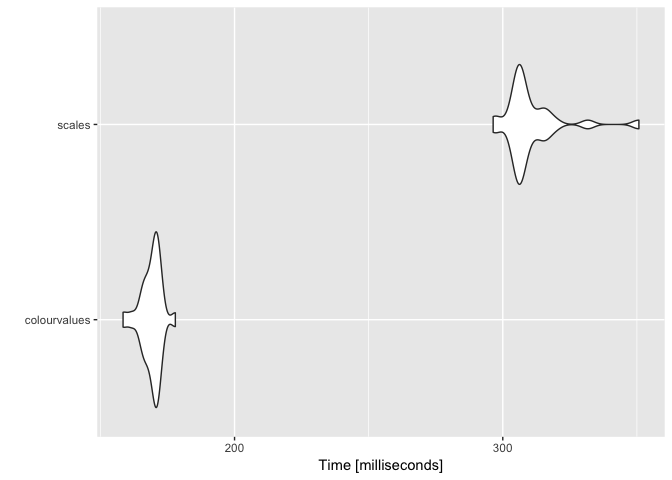
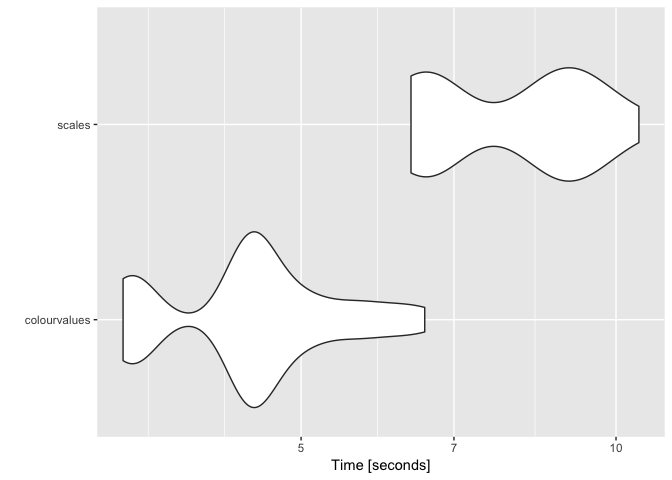
closes #29

diff --git a/src/RcppExports.cpp b/src/RcppExports.cpp
@@ -20,9 +20,9 @@ BEGIN_RCPP
     return rcpp_result_gen;
 END_RCPP
 }
-// rcpp_colour_num_value_string_palette_legend_hex
-Rcpp::List rcpp_colour_num_value_string_palette_legend_hex(Rcpp::NumericVector x, std::string palette, std::string na_colour, Rcpp::NumericVector alpha, bool include_alpha, int n_summaries);
-RcppExport SEXP _colourvalues_rcpp_colour_num_value_string_palette_legend_hex(SEXP xSEXP, SEXP paletteSEXP, SEXP na_colourSEXP, SEXP alphaSEXP, SEXP include_alphaSEXP, SEXP n_summariesSEXP) {
+// rcpp_colour_num_value_string_palette_summary_hex
+Rcpp::List rcpp_colour_num_value_string_palette_summary_hex(Rcpp::NumericVector x, std::string palette, std::string na_colour, Rcpp::NumericVector alpha, bool include_alpha, int n_summaries);
+RcppExport SEXP _colourvalues_rcpp_colour_num_value_string_palette_summary_hex(SEXP xSEXP, SEXP paletteSEXP, SEXP na_colourSEXP, SEXP alphaSEXP, SEXP include_alphaSEXP, SEXP n_summariesSEXP) {
 BEGIN_RCPP
     Rcpp::RObject rcpp_result_gen;
     Rcpp::RNGScope rcpp_rngScope_gen;
@@ -32,7 +32,7 @@ BEGIN_RCPP
     Rcpp::traits::input_parameter< Rcpp::NumericVector >::type alpha(alphaSEXP);
     Rcpp::traits::input_parameter< bool >::type include_alpha(include_alphaSEXP);
     Rcpp::traits::input_parameter< int >::type n_summaries(n_summariesSEXP);
-    rcpp_result_gen = Rcpp::wrap(rcpp_colour_num_value_string_palette_legend_hex(x, palette, na_colour, alpha, include_alpha, n_summaries));
+    rcpp_result_gen = Rcpp::wrap(rcpp_colour_num_value_string_palette_summary_hex(x, palette, na_colour, alpha, include_alpha, n_summaries));
     return rcpp_result_gen;
 END_RCPP
 }
@@ -47,6 +47,21 @@ BEGIN_RCPP
     Rcpp::traits::input_parameter< std::string >::type na_colour(na_colourSEXP);
     Rcpp::traits::input_parameter< bool >::type include_alpha(include_alphaSEXP);
     rcpp_result_gen = Rcpp::wrap(rcpp_colour_num_value_rgb_palette_hex(x, palette, na_colour, include_alpha));
+    return rcpp_result_gen;
+END_RCPP
+}
+// rcpp_colour_num_value_rgb_palette_summary_hex
+Rcpp::List rcpp_colour_num_value_rgb_palette_summary_hex(Rcpp::NumericVector x, Rcpp::NumericMatrix palette, std::string na_colour, bool include_alpha, int n_summaries);
+RcppExport SEXP _colourvalues_rcpp_colour_num_value_rgb_palette_summary_hex(SEXP xSEXP, SEXP paletteSEXP, SEXP na_colourSEXP, SEXP include_alphaSEXP, SEXP n_summariesSEXP) {
+BEGIN_RCPP
+    Rcpp::RObject rcpp_result_gen;
+    Rcpp::RNGScope rcpp_rngScope_gen;
+    Rcpp::traits::input_parameter< Rcpp::NumericVector >::type x(xSEXP);
+    Rcpp::traits::input_parameter< Rcpp::NumericMatrix >::type palette(paletteSEXP);
+    Rcpp::traits::input_parameter< std::string >::type na_colour(na_colourSEXP);
+    Rcpp::traits::input_parameter< bool >::type include_alpha(include_alphaSEXP);
+    Rcpp::traits::input_parameter< int >::type n_summaries(n_summariesSEXP);
+    rcpp_result_gen = Rcpp::wrap(rcpp_colour_num_value_rgb_palette_summary_hex(x, palette, na_colour, include_alpha, n_summaries));
     return rcpp_result_gen;
 END_RCPP
 }
@@ -94,6 +109,22 @@ BEGIN_RCPP
     return rcpp_result_gen;
 END_RCPP
 }
+// rcpp_colour_num_value_string_palette_summary_rgb
+Rcpp::List rcpp_colour_num_value_string_palette_summary_rgb(Rcpp::NumericVector x, std::string palette, std::string na_colour, Rcpp::NumericVector alpha, bool include_alpha, int n_summaries);
+RcppExport SEXP _colourvalues_rcpp_colour_num_value_string_palette_summary_rgb(SEXP xSEXP, SEXP paletteSEXP, SEXP na_colourSEXP, SEXP alphaSEXP, SEXP include_alphaSEXP, SEXP n_summariesSEXP) {
+BEGIN_RCPP
+    Rcpp::RObject rcpp_result_gen;
+    Rcpp::RNGScope rcpp_rngScope_gen;
+    Rcpp::traits::input_parameter< Rcpp::NumericVector >::type x(xSEXP);
+    Rcpp::traits::input_parameter< std::string >::type palette(paletteSEXP);
+    Rcpp::traits::input_parameter< std::string >::type na_colour(na_colourSEXP);
+    Rcpp::traits::input_parameter< Rcpp::NumericVector >::type alpha(alphaSEXP);
+    Rcpp::traits::input_parameter< bool >::type include_alpha(include_alphaSEXP);
+    Rcpp::traits::input_parameter< int >::type n_summaries(n_summariesSEXP);
+    rcpp_result_gen = Rcpp::wrap(rcpp_colour_num_value_string_palette_summary_rgb(x, palette, na_colour, alpha, include_alpha, n_summaries));
+    return rcpp_result_gen;
+END_RCPP
+}
 // rcpp_colour_num_value_rgb_palette_rgb
 Rcpp::NumericMatrix rcpp_colour_num_value_rgb_palette_rgb(Rcpp::NumericVector x, Rcpp::NumericMatrix palette, std::string na_colour, bool include_alpha);
 RcppExport SEXP _colourvalues_rcpp_colour_num_value_rgb_palette_rgb(SEXP xSEXP, SEXP paletteSEXP, SEXP na_colourSEXP, SEXP include_alphaSEXP) {
@@ -105,6 +136,21 @@ BEGIN_RCPP
     Rcpp::traits::input_parameter< std::string >::type na_colour(na_colourSEXP);
     Rcpp::traits::input_parameter< bool >::type include_alpha(include_alphaSEXP);
     rcpp_result_gen = Rcpp::wrap(rcpp_colour_num_value_rgb_palette_rgb(x, palette, na_colour, include_alpha));
+    return rcpp_result_gen;
+END_RCPP
+}
+// rcpp_colour_num_value_rgb_palette_summary_rgb
+Rcpp::List rcpp_colour_num_value_rgb_palette_summary_rgb(Rcpp::NumericVector x, Rcpp::NumericMatrix palette, std::string na_colour, bool include_alpha, int n_summaries);
+RcppExport SEXP _colourvalues_rcpp_colour_num_value_rgb_palette_summary_rgb(SEXP xSEXP, SEXP paletteSEXP, SEXP na_colourSEXP, SEXP include_alphaSEXP, SEXP n_summariesSEXP) {
+BEGIN_RCPP
+    Rcpp::RObject rcpp_result_gen;
+    Rcpp::RNGScope rcpp_rngScope_gen;
+    Rcpp::traits::input_parameter< Rcpp::NumericVector >::type x(xSEXP);
+    Rcpp::traits::input_parameter< Rcpp::NumericMatrix >::type palette(paletteSEXP);
+    Rcpp::traits::input_parameter< std::string >::type na_colour(na_colourSEXP);
+    Rcpp::traits::input_parameter< bool >::type include_alpha(include_alphaSEXP);
+    Rcpp::traits::input_parameter< int >::type n_summaries(n_summariesSEXP);
+    rcpp_result_gen = Rcpp::wrap(rcpp_colour_num_value_rgb_palette_summary_rgb(x, palette, na_colour, include_alpha, n_summaries));
     return rcpp_result_gen;
 END_RCPP
 }
@@ -223,12 +269,15 @@ END_RCPP
 
 static const R_CallMethodDef CallEntries[] = {
     {"_colourvalues_rcpp_colour_num_value_string_palette_hex", (DL_FUNC) &_colourvalues_rcpp_colour_num_value_string_palette_hex, 5},
-    {"_colourvalues_rcpp_colour_num_value_string_palette_legend_hex", (DL_FUNC) &_colourvalues_rcpp_colour_num_value_string_palette_legend_hex, 6},
+    {"_colourvalues_rcpp_colour_num_value_string_palette_summary_hex", (DL_FUNC) &_colourvalues_rcpp_colour_num_value_string_palette_summary_hex, 6},
     {"_colourvalues_rcpp_colour_num_value_rgb_palette_hex", (DL_FUNC) &_colourvalues_rcpp_colour_num_value_rgb_palette_hex, 4},
+    {"_colourvalues_rcpp_colour_num_value_rgb_palette_summary_hex", (DL_FUNC) &_colourvalues_rcpp_colour_num_value_rgb_palette_summary_hex, 5},
     {"_colourvalues_rcpp_colour_str_value_string_palette_hex", (DL_FUNC) &_colourvalues_rcpp_colour_str_value_string_palette_hex, 5},
     {"_colourvalues_rcpp_colour_str_value_rgb_palette_hex", (DL_FUNC) &_colourvalues_rcpp_colour_str_value_rgb_palette_hex, 4},
     {"_colourvalues_rcpp_colour_num_value_string_palette_rgb", (DL_FUNC) &_colourvalues_rcpp_colour_num_value_string_palette_rgb, 5},
+    {"_colourvalues_rcpp_colour_num_value_string_palette_summary_rgb", (DL_FUNC) &_colourvalues_rcpp_colour_num_value_string_palette_summary_rgb, 6},
     {"_colourvalues_rcpp_colour_num_value_rgb_palette_rgb", (DL_FUNC) &_colourvalues_rcpp_colour_num_value_rgb_palette_rgb, 4},
+    {"_colourvalues_rcpp_colour_num_value_rgb_palette_summary_rgb", (DL_FUNC) &_colourvalues_rcpp_colour_num_value_rgb_palette_summary_rgb, 5},
     {"_colourvalues_rcpp_colour_str_value_string_palette_rgb", (DL_FUNC) &_colourvalues_rcpp_colour_str_value_string_palette_rgb, 5},
     {"_colourvalues_rcpp_colour_str_value_rgb_palette_rgb", (DL_FUNC) &_colourvalues_rcpp_colour_str_value_rgb_palette_rgb, 4},
     {"_colourvalues_rcpp_convert_hex_to_rgb", (DL_FUNC) &_colourvalues_rcpp_convert_hex_to_rgb, 1},

diff --git a/inst/include/colourvalues/colours/colours_rgb.hpp b/inst/include/colourvalues/colours/colours_rgb.hpp
@@ -5,6 +5,7 @@
 #include "colourvalues/colours.hpp"
 #include "colourvalues/utils/utils.hpp"
 #include "colourvalues/alpha/alpha.hpp"
+#include "colourvalues/legend/legend.hpp"
 
 namespace colourvalues {
 namespace colours_rgb {
@@ -79,11 +80,12 @@ namespace colours_rgb {
   }
 
   // in this function the colour vectors will already be scaled [0,1]
-  inline Rcpp::NumericMatrix colour_value_rgb(
+  inline SEXP colour_value_rgb(
       Rcpp::NumericVector x,
       Rcpp::NumericMatrix palette,
       std::string na_colour,
-      bool include_alpha) {
+      bool include_alpha,
+      int n_summaries = 0) {
 
     int x_size = x.size();
     int alpha_type = colourvalues::alpha::make_alpha_type( 0, x_size, palette.ncol() );
@@ -98,15 +100,28 @@ namespace colours_rgb {
 
     Rcpp::NumericVector alpha_full = colourvalues::alpha::validate_alpha( alpha, alpha_type, x_size );
 
+    if ( n_summaries > 0 ) {
+      Rcpp::NumericVector summary = colourvalues::legend::numeric_summary( x, n_summaries );
+      Rcpp::NumericVector summary_values = Rcpp::clone( summary );
+      Rcpp::NumericMatrix summary_rgb = colour_values_to_rgb(x, red, green, blue, alpha_full, alpha_type, na_colour, include_alpha );
+      Rcpp::NumericMatrix full_rgb = colour_values_to_rgb( x, red, green, blue, alpha_full, alpha_type, na_colour, include_alpha );
+      return Rcpp::List::create(
+        _["colours"] = full_rgb,
+        _["summary_values"] = summary_values,
+        _["summary_colours"] = summary_rgb
+      );
+    }
+
     return colour_values_to_rgb( x, red, green, blue, alpha_full, alpha_type, na_colour, include_alpha );
   }
 
-  inline Rcpp::NumericMatrix colour_value_rgb(
+  inline SEXP colour_value_rgb(
       Rcpp::NumericVector x,
       std::string palette,
       std::string na_colour,
       Rcpp::NumericVector alpha,
-      bool include_alpha) {
+      bool include_alpha,
+      int n_summaries = 0) {
 
     // TODO(this throws an error on Travis)
     // if(!is_hex_colour(na_colour)) {
@@ -122,6 +137,18 @@ namespace colours_rgb {
     Rcpp::NumericVector blue(256);
 
     colourvalues::palette_utils::resolve_palette( palette, red, green, blue );
+
+    if ( n_summaries > 0 ) {
+      Rcpp::NumericVector summary = colourvalues::legend::numeric_summary( x, n_summaries );
+      Rcpp::NumericVector summary_values = Rcpp::clone( summary );
+      Rcpp::NumericMatrix summary_rgb = colour_values_to_rgb(summary, red, green, blue, alpha_full, alpha_type, na_colour, include_alpha );
+      Rcpp::NumericMatrix full_rgb = colour_values_to_rgb(x, red, green, blue, alpha_full, alpha_type, na_colour, include_alpha );
+      return Rcpp::List::create(
+        _["colours"] = full_rgb,
+        _["summary_values"] = summary_values,
+        _["summary_colours"] = summary_rgb
+      );
+    }
 
     return colour_values_to_rgb(x, red, green, blue, alpha_full, alpha_type, na_colour, include_alpha );
   }

diff --git a/src/ColourValues.cpp b/src/ColourValues.cpp
@@ -18,7 +18,7 @@ Rcpp::StringVector rcpp_colour_num_value_string_palette_hex(
 }
 
 // [[Rcpp::export]]
-Rcpp::List rcpp_colour_num_value_string_palette_legend_hex(
+Rcpp::List rcpp_colour_num_value_string_palette_summary_hex(
     Rcpp::NumericVector x,
     std::string palette,
     std::string na_colour,
@@ -39,6 +39,18 @@ Rcpp::StringVector rcpp_colour_num_value_rgb_palette_hex(
   Rcpp::NumericVector x2 = Rcpp::clone(x);
   return colourvalues::colours_hex::colour_value_hex( x2, palette, na_colour, include_alpha );
 }
+
+// [[Rcpp::export]]
+Rcpp::List rcpp_colour_num_value_rgb_palette_summary_hex(
+    Rcpp::NumericVector x,
+    Rcpp::NumericMatrix palette,
+    std::string na_colour,
+    bool include_alpha,
+    int n_summaries ) {
+  Rcpp::NumericVector x2 = Rcpp::clone(x);
+  return colourvalues::colours_hex::colour_value_hex( x2, palette, na_colour, include_alpha, n_summaries );
+}
+
 
 // [[Rcpp::export]]
 Rcpp::StringVector rcpp_colour_str_value_string_palette_hex(
@@ -76,6 +88,18 @@ Rcpp::NumericMatrix rcpp_colour_num_value_string_palette_rgb(
 }
 
 // [[Rcpp::export]]
+Rcpp::List rcpp_colour_num_value_string_palette_summary_rgb(
+    Rcpp::NumericVector x,
+    std::string palette,
+    std::string na_colour,
+    Rcpp::NumericVector alpha,
+    bool include_alpha,
+    int n_summaries) {
+  Rcpp::NumericVector x2 = Rcpp::clone(x);
+  return colourvalues::colours_rgb::colour_value_rgb( x2, palette, na_colour, alpha, include_alpha, n_summaries );
+}
+
+// [[Rcpp::export]]
 Rcpp::NumericMatrix rcpp_colour_num_value_rgb_palette_rgb(
     Rcpp::NumericVector x,
     Rcpp::NumericMatrix palette,
@@ -83,6 +107,17 @@ Rcpp::NumericMatrix rcpp_colour_num_value_rgb_palette_rgb(
     bool include_alpha ) {
   Rcpp::NumericVector x2 = Rcpp::clone(x);
   return colourvalues::colours_rgb::colour_value_rgb( x2, palette, na_colour, include_alpha );
+}
+
+// [[Rcpp::export]]
+Rcpp::List rcpp_colour_num_value_rgb_palette_summary_rgb(
+    Rcpp::NumericVector x,
+    Rcpp::NumericMatrix palette,
+    std::string na_colour,
+    bool include_alpha,
+    int n_summaries ) {
+  Rcpp::NumericVector x2 = Rcpp::clone(x);
+  return colourvalues::colours_rgb::colour_value_rgb( x2, palette, na_colour, include_alpha, n_summaries );
 }
 
 // [[Rcpp::export]]

diff --git a/inst/include/colourvalues/colours/colours_hex.hpp b/inst/include/colourvalues/colours/colours_hex.hpp
@@ -94,6 +94,18 @@ namespace colours_hex {
 
     Rcpp::NumericVector alpha_full = colourvalues::alpha::validate_alpha( alpha, alpha_type, x_size );
 
+    if ( n_summaries > 0 ) {
+      Rcpp::NumericVector summary = colourvalues::legend::numeric_summary( x, n_summaries );
+      Rcpp::NumericVector summary_values = Rcpp::clone( summary );
+      Rcpp::StringVector summary_hex = colour_values_to_hex(summary, red, green, blue, alpha_full, alpha_type, na_colour, include_alpha);
+      Rcpp::StringVector full_hex = colour_values_to_hex(x, red, green, blue, alpha_full, alpha_type, na_colour, include_alpha);
+      return Rcpp::List::create(
+        _["colours"] = full_hex,
+        _["summary_values"] = summary_values,
+        _["summary_colours"] = summary_hex
+      );
+    }
+
     return colour_values_to_hex( x, red, green, blue, alpha_full, alpha_type, na_colour, include_alpha );
   }
 
@@ -121,7 +133,7 @@ namespace colours_hex {
     colourvalues::palette_utils::resolve_palette( palette, red, green, blue );
 
     if ( n_summaries > 0 ) {
-      Rcpp::NumericVector summary = colourvalues::legend::numeric_legend_values( x, n_summaries );
+      Rcpp::NumericVector summary = colourvalues::legend::numeric_summary( x, n_summaries );
       Rcpp::NumericVector summary_values = Rcpp::clone( summary );
       Rcpp::StringVector summary_hex = colour_values_to_hex(summary, red, green, blue, alpha_full, alpha_type, na_colour, include_alpha);
       Rcpp::StringVector full_hex = colour_values_to_hex(x, red, green, blue, alpha_full, alpha_type, na_colour, include_alpha);
@@ -131,7 +143,6 @@ namespace colours_hex {
         _["summary_colours"] = summary_hex
         );
     }
-
     return colour_values_to_hex(x, red, green, blue, alpha_full, alpha_type, na_colour, include_alpha);
   }
 

diff --git a/inst/include/colourvalues/legend/legend.hpp b/inst/include/colourvalues/legend/legend.hpp
@@ -11,7 +11,7 @@ namespace legend {
    * The idea is to use the same palette as the vector to then get the values and colours
    * to use in a legend
    */
-  inline Rcpp::NumericVector numeric_legend_values(Rcpp::NumericVector nv, std::size_t n) {
+  inline Rcpp::NumericVector numeric_summary(Rcpp::NumericVector nv, std::size_t n) {
     double x = Rcpp::min( nv );
     double y = Rcpp::max( nv );
     double h = ( y - x ) / static_cast< double >( n - 1 );

diff --git a/README.md b/README.md
@@ -217,6 +217,24 @@ colour_values_rgb(1:5, include_alpha = F)
 # [5,]  253  231   37
 ```
 
+## Can I get a summary of colours to use in a legend?
+
+Yes, use the `n_summaries` argument to specify the number of summary
+values you’d like
+
+``` r
+colour_values(1:10, n_summaries = 3)
+# $colours
+#  [1] "#440154FF" "#482878FF" "#3E4A89FF" "#31688EFF" "#26838EFF"
+#  [6] "#1F9D89FF" "#35B779FF" "#6CCE59FF" "#B4DD2CFF" "#FDE725FF"
+# 
+# $summary_values
+# [1]  1.0  5.5 10.0
+# 
+# $summary_colours
+# [1] "#440154FF" "#21908CFF" "#FDE725FF"
+```
+
 -----
 
 ### What’s the performance like?
@@ -244,15 +262,15 @@ m <- microbenchmark(
 )
 m
 # Unit: seconds
-#          expr      min       lq     mean   median       uq      max neval
-#  colourvalues 1.680810 1.750678 1.781264 1.789702 1.811741 1.910503    25
-#        scales 2.843353 2.943077 3.028863 3.002642 3.096513 3.264814    25
+#          expr      min       lq     mean   median       uq       max neval
+#  colourvalues 3.379120 4.288701 4.561132 4.491353 4.925689  6.563919    25
+#        scales 6.368541 6.572796 7.999677 8.565267 9.036532 10.516685    25
 
 autoplot(m)
 # Coordinate system already present. Adding new coordinate system, which will replace the existing one.
 ```
 
-<img src="man/figures/README-unnamed-chunk-12-1.png" width="100%" height="400" />
+<img src="man/figures/README-unnamed-chunk-13-1.png" width="100%" height="400" />
 
 **1 million characters (26 unique values)**
 
@@ -274,11 +292,11 @@ m <- microbenchmark(
 m
 # Unit: milliseconds
 #          expr      min       lq     mean   median       uq      max neval
-#  colourvalues 168.9823 175.0881 176.5180 177.0736 178.1082 182.8782    25
-#        scales 295.6720 307.0646 313.1495 308.4419 315.5147 368.5441    25
+#  colourvalues 334.1250 348.3973 362.4838 354.1611 356.3841 464.4726    25
+#        scales 635.9375 648.6532 680.7516 663.0456 691.0620 824.5088    25
 
 autoplot(m)
 # Coordinate system already present. Adding new coordinate system, which will replace the existing one.
 ```
 
-<img src="man/figures/README-unnamed-chunk-13-1.png" width="100%" height="400" />
+<img src="man/figures/README-unnamed-chunk-14-1.png" width="100%" height="400" />
